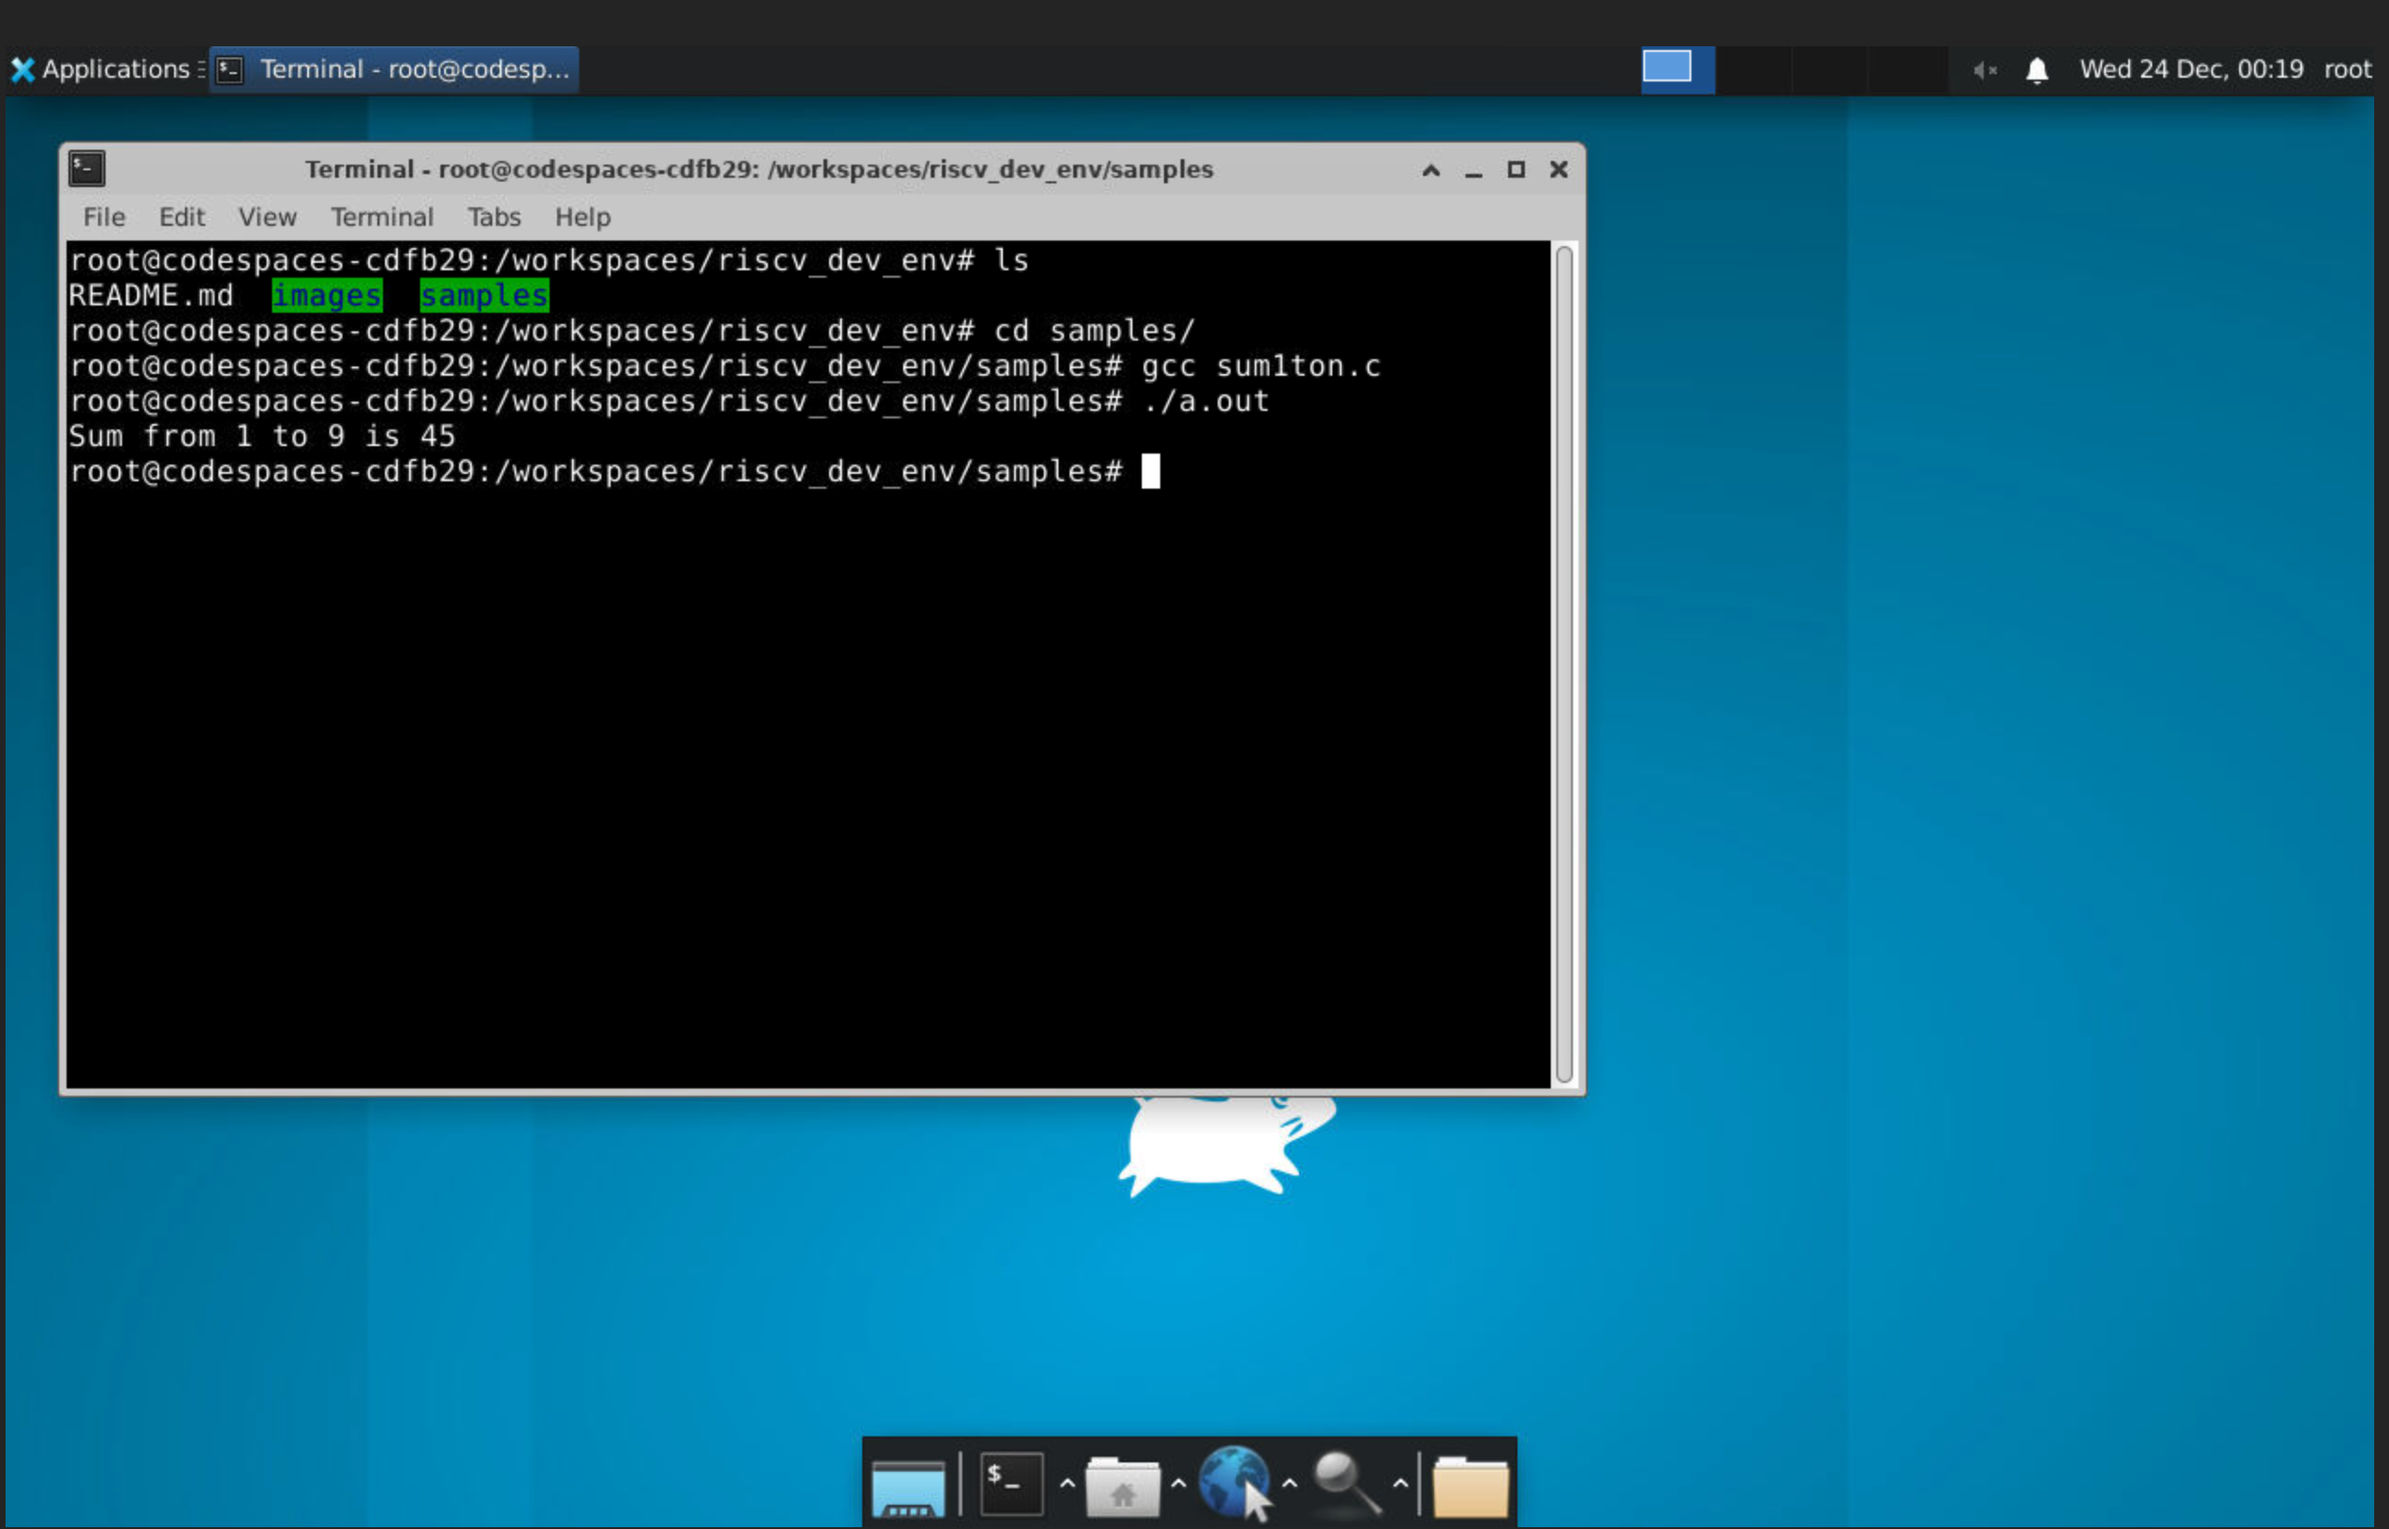
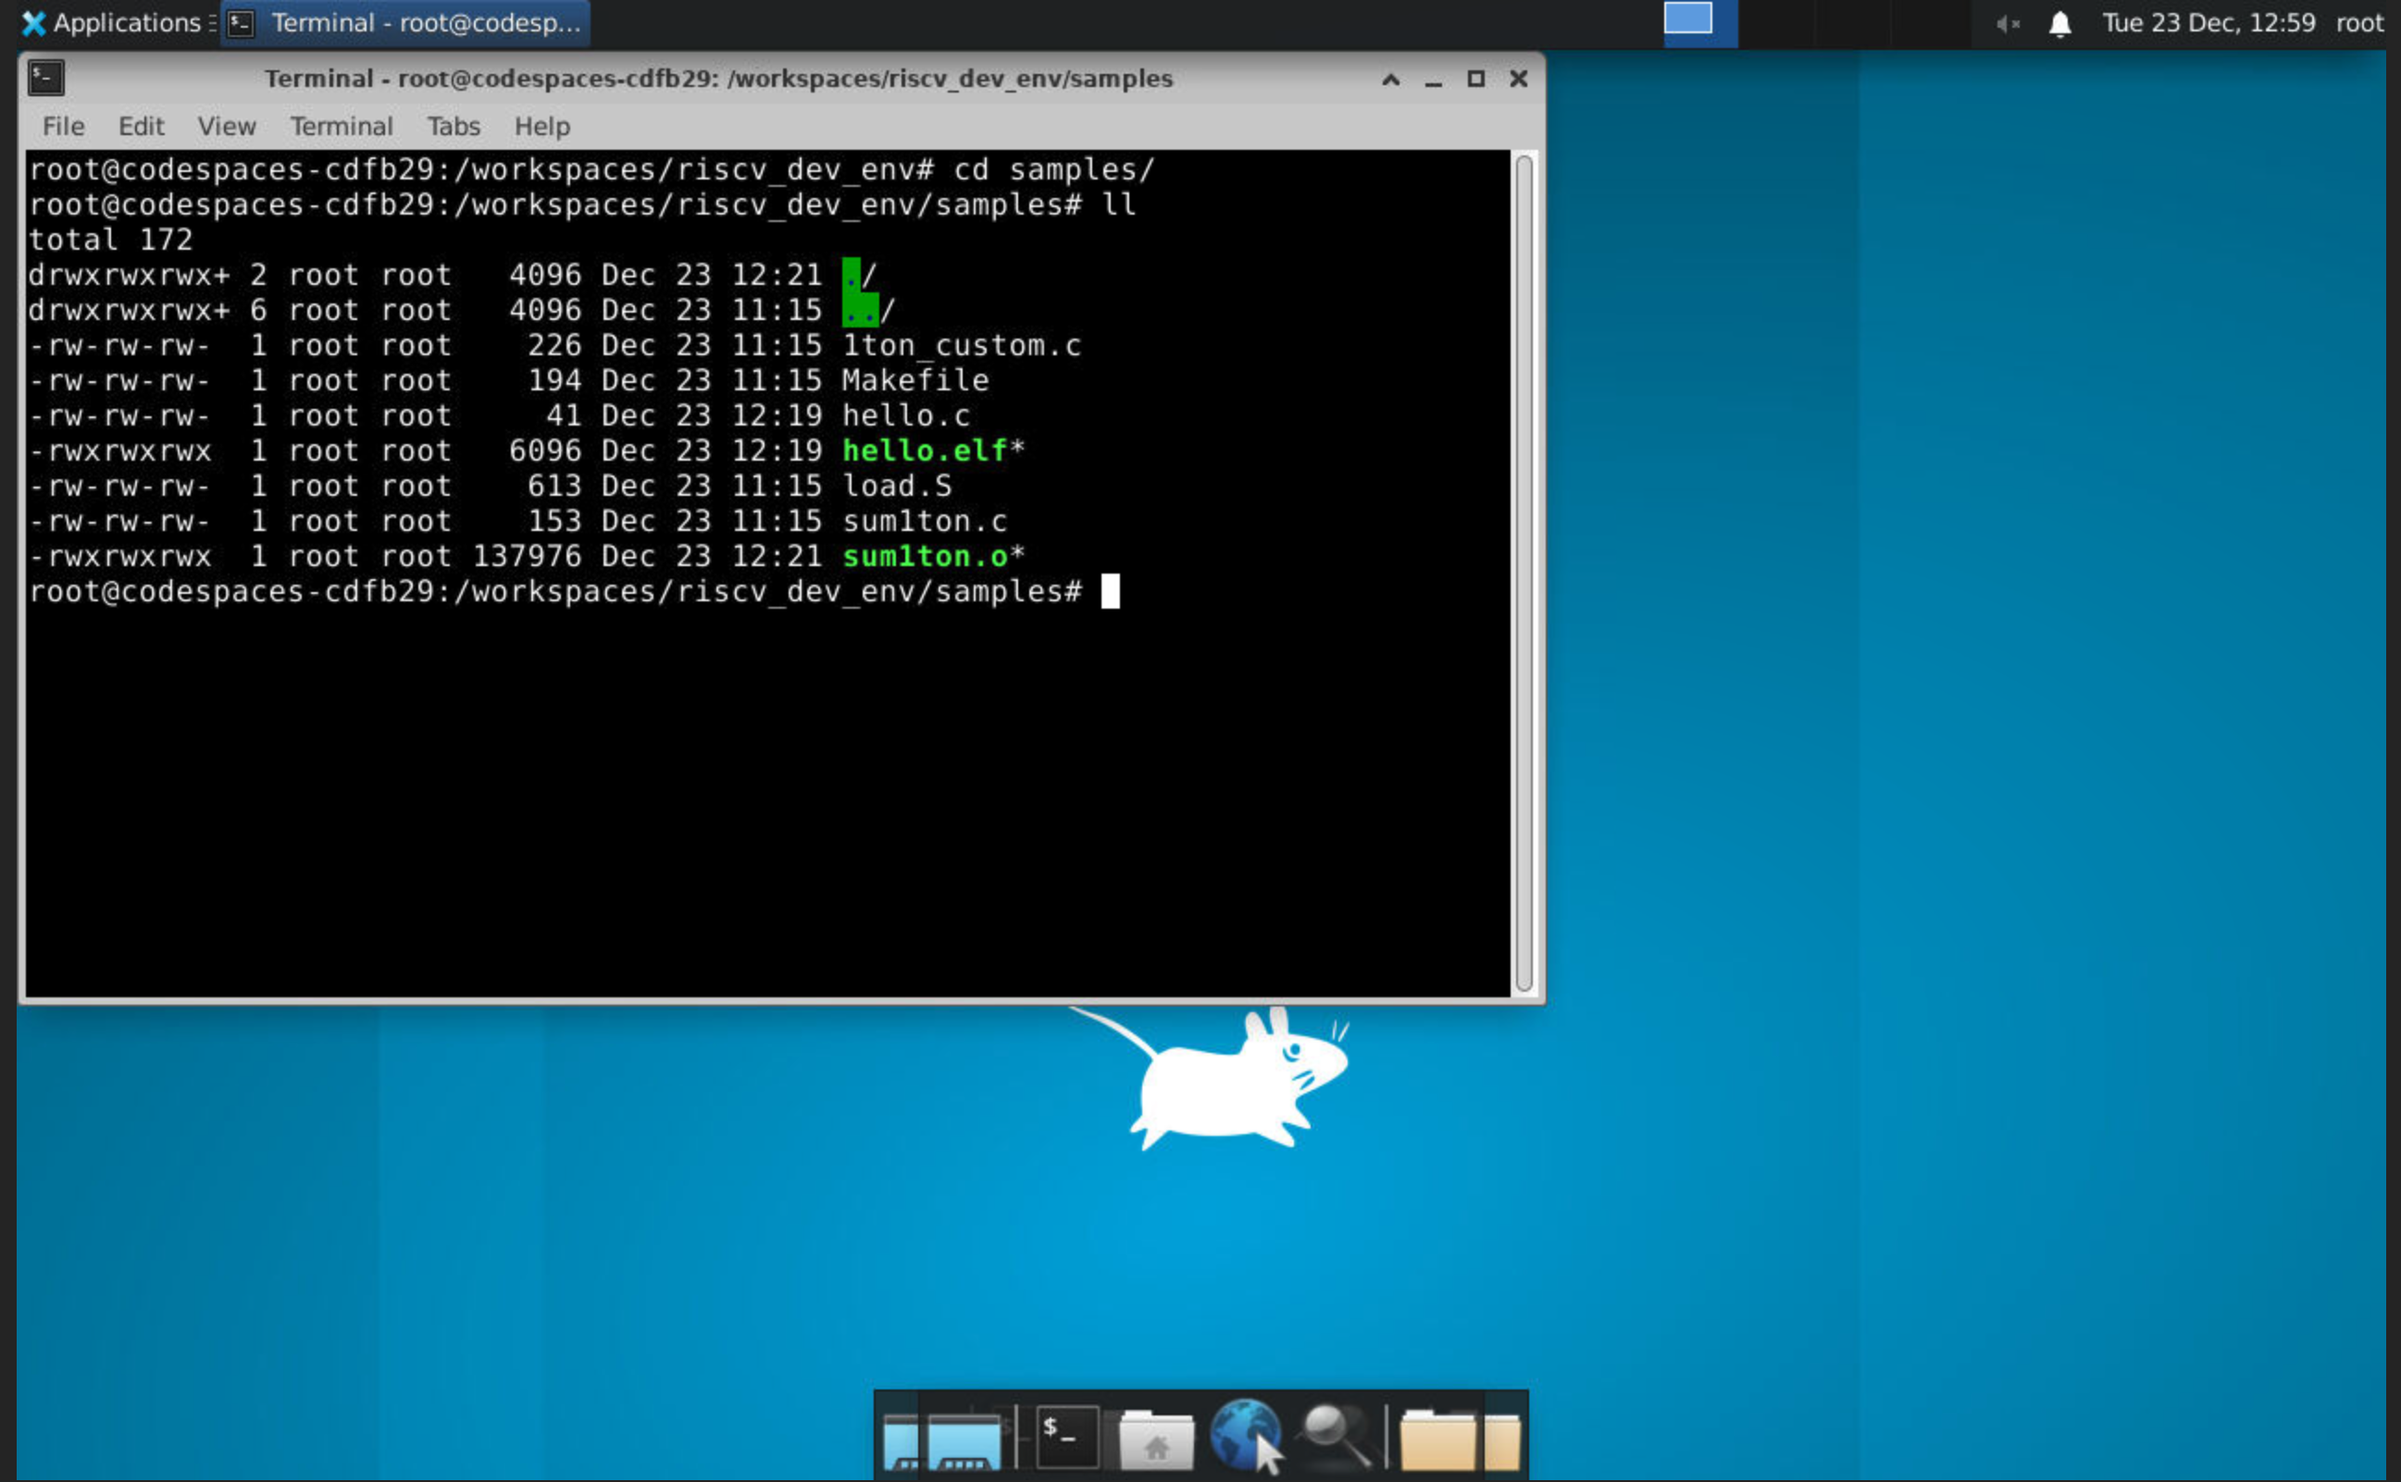
update readme

Changed region(s): [[0.0, 0.0, 1.0, 0.9988], [0.3408, 0.9363, 0.6507, 0.9988]]

diff --git a/README.md b/README.md
@@ -161,7 +161,7 @@ vi sum1ton.c
 
 This opens `sum1ton.c` in **vi** on the noVNC desktop.
 
-![gedit editing](images/8.png)
+![vi editing](images/8.png)
 
 Make changes (for example, change `n = 9;` to another value), save the file, and re-run:
 
@@ -170,6 +170,7 @@ riscv64-unknown-elf-gcc -o sum1ton.o sum1ton.c
 spike pk sum1ton.o
 ```
 ![vi editing](images/9.png)
+![vi editing](images/10.png)
 ---
 
 You have now:
